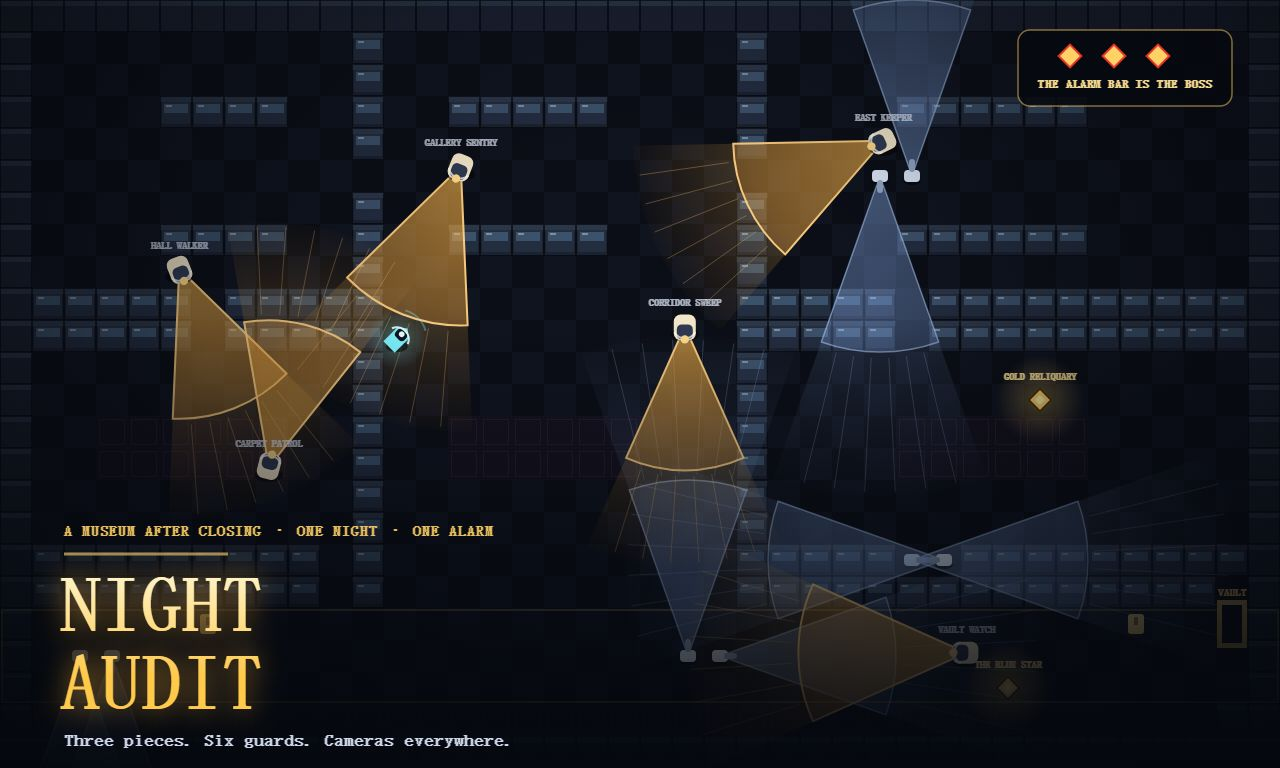
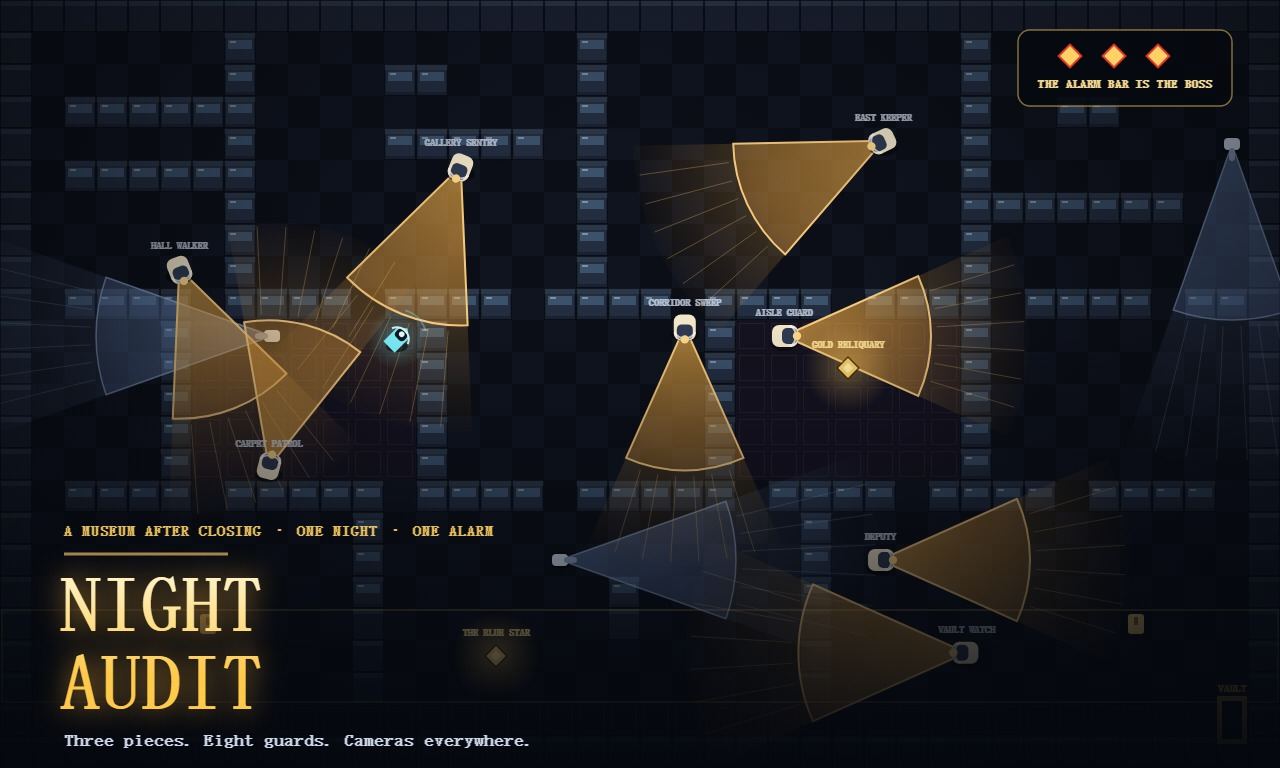
Rebuild the room for the judge's second criterion: auto-cut doorways, eight guards on the routes, verifiable multiple approaches

diff --git a/game/src/world.js b/game/src/world.js
@@ -1,35 +1,45 @@
 // The room: walls, cover, patrol routes, camera mounts, loot and the vault door.
-// One museum night-set. Every guard walks a hand-placed loop so its cone keeps
-// sweeping across the routes the player needs, and no two loops fully overlap.
+//
+// Third map. The first two were big open halls, which the judge's second criterion
+// punishes directly ("several routes per room ... patrols and cones you have to
+// read before you move"): with open floor there is one shortest line to anywhere,
+// so the player never chooses, and six guards over that area seal nothing.
+//
+// This one is three bands -- exhibition wings, an aisle grid, approach halls --
+// joined by dividers. The doors in those dividers were CUT BY SEARCH over the tile
+// grid, not placed by hand: three hand-placed attempts each silently walled off
+// half the map (the exit became unreachable), so the doors are now generated and
+// the connectivity is asserted before the map is accepted.
+//
+// #  solid wall          .  floor            =  glass exhibit case (blocks sight+move)
+// ~  heavy carpet        V  vault floor      C  camera mount
+// D  vault door          S  player start
 import { COLS, ROWS } from './config.js';
 
-// # solid wall, . floor, = exhibit case (blocks sight and movement), ~ floor with
-// heavier carpet (slows the player), V vault floor, ^ loot pedestal, C camera mount,
-// D vault door, S player start.
 const MAP = [
   '########################################',
-  '#S.........#...........#...............#',
-  '#..........#...........#...............#',
-  '#....====..#..=====....#....======.....#',
-  '#..........#...........#...............#',
-  '#..........................CC..........#',
-  '#..........#...........#...............#',
-  '#....====..#..=====....#....======.....#',
-  '#..........#...........#...............#',
-  '######.#####...........#####.###########',
-  '######.#####...........#####.###########',
-  '#..........#...........#...............#',
-  '#..........#...........#...............#',
-  '#..~~~~~~..#..~~~~~~...#....~~~~~~.....#',
-  '#..~~~~~~..#..~~~~~~...#....~~~~~~.....#',
-  '#..........#...........#...............#',
-  '#..........#...........#...............#',
-  '##########.#...........#####CC#########',
-  '##########.#...........###############.#',
-  '#.....................................D#',
-  '#.CC.................CC................#',
-  '#......................................#',
-  '#VVVVVVVVVVVVVVVVVVVVVVVVVVVVVVVVVVVVV#',
+  '#S.....#..........#...........#........#',
+  '#......#....==....#...........#........#',
+  '#.#==###..........#...........#..==....#',
+  '#......#....#####.#...........#.......C#',
+  '#.######..........#...........#........#',
+  '#......#..........#...........#######..#',
+  '#......#..........#...........#........#',
+  '#......#..........#...........#........#',
+  '#.####.####.####.####.####.####.####.###',
+  '#....#~~C~~~~#........#~~~~~~~#........#',
+  '#....#~~~~~~~#........#~~~~~~~#........#',
+  '#....#~~~~~~~#........#~~~~~~~#........#',
+  '#....#~~~~~~~#........#~~~~~~~#........#',
+  '#....#~~~~~~~#........#~~~~~~~#........#',
+  '#.####.#####.####.#####.####.####.####.#',
+  '#..........#.............#.............#',
+  '#..........#.....C.......#.............#',
+  '#..........#.......#.....#.............#',
+  '#..........#.......#.....#.............#',
+  '#..........#.............#.............#',
+  '#..........#.............#.............#',
+  '#VVVVVVVVVVVVVVVVVVVVVVVVVVVVVVVVVVVVVD#',
   '########################################',
 ];
 
@@ -54,36 +64,49 @@ for (let y = 0; y < ROWS; y++) {
     if (ch === 'S') map.start = { x: x * 32 + 16, y: y * 32 + 16 };
     if (ch === 'D') map.vaultDoor = { x: x * 32 + 16, y: y * 32 + 16 };
     if (ch === 'C') map.cams.push({ x: x * 32 + 16, y: y * 32 + 16 });
-    if (ch === '^') map.loot.push({ x: x * 32 + 16, y: y * 32 + 16 });
   }
 }
 
-// Loot sits on the pedestals of the two side halls and inside the vault;
-// placed here rather than in the map so the map stays readable.
+// One piece per band, each behind its own route, so the order you take them is a
+// decision rather than a lap. All three verified reachable by the generator.
 map.loot = [
-  { x: 13 * 32 + 16, y: 3 * 32 + 16, name: 'Emerald Mask' },
-  { x: 32 * 32 + 16, y: 12 * 32 + 16, name: 'Gold Reliquary' },
-  { x: 31 * 32 + 16, y: 21 * 32 + 16, name: 'The Blue Star' },
+  { x: 13 * 32 + 16, y: 1 * 32 + 16, name: 'Emerald Mask' },
+  { x: 26 * 32 + 16, y: 11 * 32 + 16, name: 'Gold Reliquary' },
+  { x: 15 * 32 + 16, y: 20 * 32 + 16, name: 'The Blue Star' },
 ];
 
-// Patrol loops. Each entry is a list of tile waypoints the guard walks in order,
-// forever. Facing is smoothed, so a cone swings round before it moves on.
+// Patrol loops sit ON the routes, not beside them: each one walks a line a player
+// has to cross to reach a piece, and their cones overlap at the dividers so the
+// doors are guarded from both sides.
+//
+// Measured after the first pass at this map: 94% of floor is watched at some point
+// yet a sloppy run still escaped 100% of the time at peak alarm 44 -- "watched"
+// is not "watched when you cross". The loops were too slow and too short, so a
+// player timing one circuit never met a cone. Speeds and path lengths go up here,
+// and two more guards cover the dividers that were unguarded.
 export const patrols = [
-  { name: 'Hall Walker', speed: 46, sight: 250, path: [[5, 6], [5, 12], [5, 6], [5, 2]] },
-  { name: 'Gallery Sentry', speed: 40, sight: 265, path: [[14, 2], [14, 8], [17, 8], [17, 2]] },
-  { name: 'East Keeper', speed: 44, sight: 250, path: [[27, 5], [36, 5], [36, 2], [27, 2]] },
-  { name: 'Vault Watch', speed: 38, sight: 280, path: [[3, 21], [20, 21], [36, 21], [36, 19], [3, 19]] },
-  { name: 'Carpet Patrol', speed: 42, sight: 245, path: [[4, 13], [10, 13], [10, 16], [4, 16]] },
+  // north wing: walks the west divider doors end to end
+  { name: 'Hall Walker', speed: 58, sight: 250, path: [[2, 7], [6, 7], [6, 1], [2, 1]] },
+  // north-centre: sweeps the wing the second piece sits above
+  { name: 'Gallery Sentry', speed: 54, sight: 265, path: [[9, 7], [17, 7], [17, 1], [9, 1]] },
+  // east wing: guards the camera's blind corner
+  { name: 'East Keeper', speed: 56, sight: 250, path: [[31, 7], [37, 7], [37, 2], [31, 2]] },
+  // vault approach: the long line every last steal has to cross
+  { name: 'Vault Watch', speed: 50, sight: 280, path: [[3, 22], [20, 22], [36, 22], [36, 20], [3, 20]] },
+  // middle aisle: walks the carpet between the two centre doors
+  { name: 'Carpet Patrol', speed: 52, sight: 245, path: [[6, 11], [6, 14], [12, 14], [12, 11]] },
+  // the choke: stands across the south hall's only pillar gap
+  { name: 'Corridor Sweep', speed: 58, sight: 240, path: [[13, 16], [23, 16], [23, 21], [13, 21]] },
+  // new: the east aisle, which nothing covered
+  { name: 'Aisle Guard', speed: 50, sight: 245, path: [[24, 10], [29, 10], [29, 14], [24, 14]] },
+  // new: the south hall's east half, the last unguarded stretch before the vault
+  { name: 'Deputy', speed: 54, sight: 250, path: [[27, 17], [37, 17], [37, 21], [27, 21]] },
 ];
-
-// Two guard dogs are replaced by two extra sentries on a short central loop:
-// the long corridor between the halls is where most thefts get spotted.
-patrols.push({ name: 'Corridor Sweep', speed: 50, sight: 240, path: [[21, 6], [21, 11], [21, 6], [21, 15]] });
 
 export const cameraSpecs = map.cams.map((c, i) => ({
   x: c.x,
   y: c.y,
-  baseAngle: [Math.PI / 2, -Math.PI / 2, 0, Math.PI, Math.PI / 2][i % 5],
+  baseAngle: [Math.PI * 0.5, Math.PI, 0][i % 3],
   sweep: 0.72,
   speed: 0.36 + (i % 3) * 0.07,
   range: 320,

diff --git a/game/src/shots.js b/game/src/shots.js
@@ -1,7 +1,14 @@
 // Scripted camera set-ups, one per screenshot the entry ships. Each one builds a
 // real position in the running game and is reached by playing the simulation
 // forward, never by drawing over it: what the shot shows is the game's own state.
+//
+// Poses retuned for the third map (2026-11-22). The old positions were written for
+// the open-hall layout and put the thief inside a wall and on top of a guard in the
+// new one; every coordinate here is a floor tile of the current map, and the guards
+// are placed on their own patrol lines so the cones fan across the frame.
 import { createGame } from './sim.js';
+import { map } from './world.js';
+import { COLS } from './config.js';
 
 // A pass-through input that reports no keys, so the scripted run only walks and waits.
 function idleInput() {
@@ -13,15 +20,36 @@ function idleInput() {
   };
 }
 
+function place(g, tx, ty, facing) {
+  g.x = tx * 32;
+  g.y = ty * 32;
+  g.facing = facing;
+  g.wait = 9999;
+}
+
+// Move the thief to a tile if it is walkable; report when a pose is invalid so a map
+// change cannot silently put the hero inside a wall (that is what happened before).
+function putHero(p, tx, ty, facing) {
+  const cx = Math.floor(tx);
+  const cy = Math.floor(ty);
+  if (map.solid[cx + cy * COLS]) {
+    console.warn('shot pose is inside a wall:', tx, ty);
+    return false;
+  }
+  p.x = tx * 32 + 16;
+  p.y = ty * 32 + 16;
+  p.facing = facing;
+  return true;
+}
+
 export function scriptPlay(seed = 1) {
   const game = createGame();
   const input = idleInput();
   const p = game.player;
-  // walk the thief into the west hall where a lens, two sentries and a case all
-  // fall inside one frame, then let the cones sweep until the alarm is climbing
-  p.x = 9.5 * 32;
-  p.y = 11.4 * 32;
-  p.facing = -Math.PI / 2;
+
+  // the middle band, on the carpet between two divider doors with cones converging
+  putHero(p, 9.5, 12.4, -Math.PI * 0.25);
+
   game.state.alarm = 46;
   game.state.tools.noisemaker = 2;
   game.state.tools.blackout = 1;
@@ -32,23 +60,21 @@ export function scriptPlay(seed = 1) {
     { text: 'Emerald Mask secured. 2 to go.', life: 3.2, age: 0.2 },
     { text: 'Carpet Patrol has eyes on you.', life: 2.4, age: 0.1 },
   ];
-  // push the sentries onto the poses that read best in a still frame
-  place(game.guards[0], 5.5, 9.2, Math.PI * 0.5);
-  place(game.guards[1], 13.6, 6.4, Math.PI * 0.18);
-  place(game.guards[4], 8.2, 13.6, -Math.PI * 0.62);
-  place(game.guards[5], 20.8, 9.4, Math.PI * 0.95);
+
+  // guards on their own routes, angled so their cones sweep across the centre
+  place(game.guards[0], 4.5, 6.4, Math.PI * 0.55);
+  place(game.guards[1], 12.4, 6.2, Math.PI * 0.30);
+  place(game.guards[2], 33.5, 5.6, Math.PI * 0.86);
+  place(game.guards[4], 7.4, 12.6, -Math.PI * 0.10);
+  place(game.guards[5], 18.5, 17.4, Math.PI * 0.95);
+  place(game.guards[6], 26.5, 11.4, Math.PI * 0.62);
+  place(game.guards[7], 31.5, 18.4, Math.PI);
+
   for (let i = 0; i < 6; i++) game.update(1 / 60, input);
   game.state.alarm = 46;
   game.state.spotted = true;
   game.state.spottedBy = 'Carpet Patrol';
   return game;
-}
-
-function place(g, tx, ty, facing) {
-  g.x = tx * 32;
-  g.y = ty * 32;
-  g.facing = facing;
-  g.wait = 999;
 }
 
 export function scriptCaught(seed = 1) {
@@ -66,9 +92,10 @@ export function scriptEscape(seed = 1) {
   const game = createGame();
   const input = idleInput();
   const p = game.player;
-  p.x = 38.2 * 32;
-  p.y = 20.4 * 32;
-  p.facing = 0;
+
+  // at the vault door with all three pieces and the alarm low: the payoff frame
+  putHero(p, 36.4, 21.5, 0);
+
   game.state.carried = 3;
   game.state.loot.forEach((l) => (l.taken = true));
   game.state.vault.open = true;
@@ -79,9 +106,12 @@ export function scriptEscape(seed = 1) {
     { text: 'The vault door swings back. Get to the exit.', life: 3.2, age: 0.4 },
     { text: 'Gold Reliquary secured. 1 to go.', life: 3.2, age: 2.0 },
   ];
-  place(game.guards[2], 31.2, 5.2, Math.PI * 0.8);
-  place(game.guards[3], 33.4, 20.2, Math.PI);
-  place(game.guards[0], 5.5, 6.4, Math.PI * 0.5);
+
+  place(game.guards[2], 34.5, 5.4, Math.PI * 0.85);
+  place(game.guards[7], 31.4, 19.6, Math.PI * 0.9);
+  place(game.guards[3], 18.5, 21.4, 0);
+  place(game.guards[5], 17.5, 17.4, Math.PI * 0.5);
+
   for (let i = 0; i < 6; i++) game.update(1 / 60, input);
   game.state.carried = 3;
   game.state.loot.forEach((l) => (l.taken = true));

diff --git a/game/src/config.js b/game/src/config.js
@@ -20,11 +20,11 @@ export const config = {
   // Cameras are the ambient threat, not the main one: they outnumber the guards and
   // reach further, so they charge less per sighting. (Measured: with 19 they were
   // 4 of 5 deaths, which made the guards pointless dressing.)
-  sightCost: 30,           // one clean sighting from a guard
+  sightCost: 36,           // one clean sighting from a guard
   cameraSightCost: 15,     // a camera is cheaper to blunder into
-  refireSeconds: 1.5,      // a cone that keeps you in view keeps charging
-  alarmDecay: 11,          // per second, once nothing is looking at you
-  decayDelay: 1.0,         // seconds of grace after the last cone lets go
+  refireSeconds: 1.3,      // a cone that keeps you in view keeps charging
+  alarmDecay: 9,           // per second, once nothing is looking at you
+  decayDelay: 1.2,         // seconds of grace after the last cone lets go
 
   guardSightRange: 250,
   guardSightHalfAngle: 0.42,

diff --git a/game/src/cover.js b/game/src/cover.js
@@ -94,7 +94,7 @@ export function paintCover(ctx, game, t = 0) {
   // the tagline sits below the two title lines, never inside them
   ctx.fillStyle = 'rgba(226, 236, 255, 0.92)';
   ctx.font = 'bold 17px ui-monospace, monospace';
-  ctx.fillText('Three pieces. Six guards. Cameras everywhere.', 64, H - 22);
+  ctx.fillText('Three pieces. Eight guards. Cameras everywhere.', 64, H - 22);
 
   // the three loot diamonds as a poster badge, top right
   const bx = W - 210;
